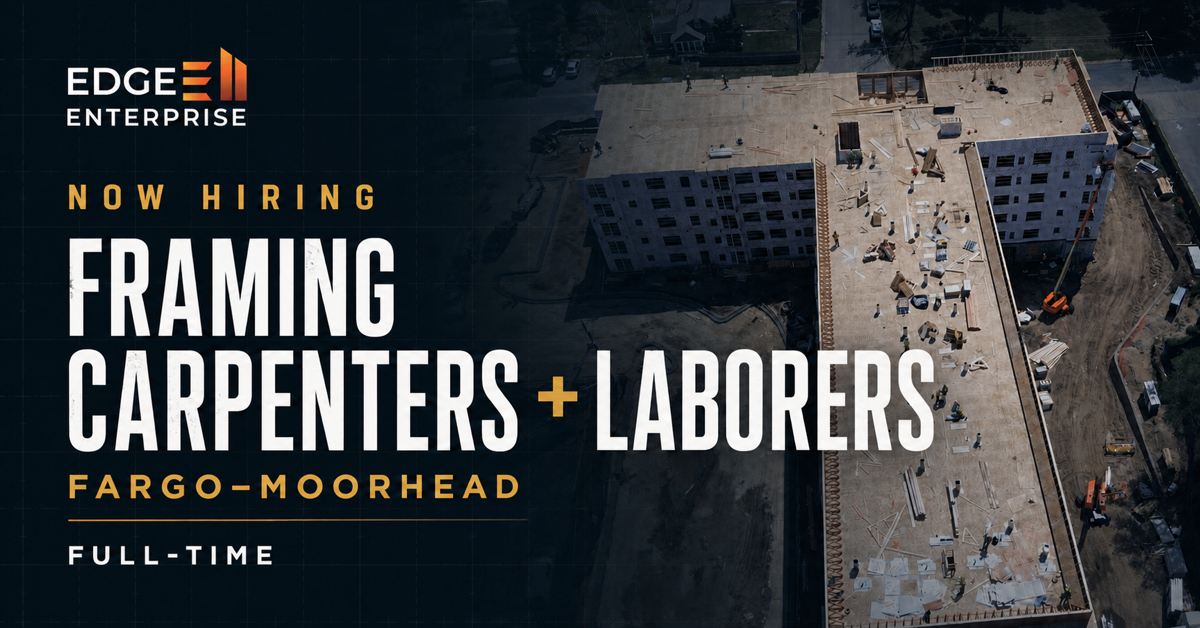
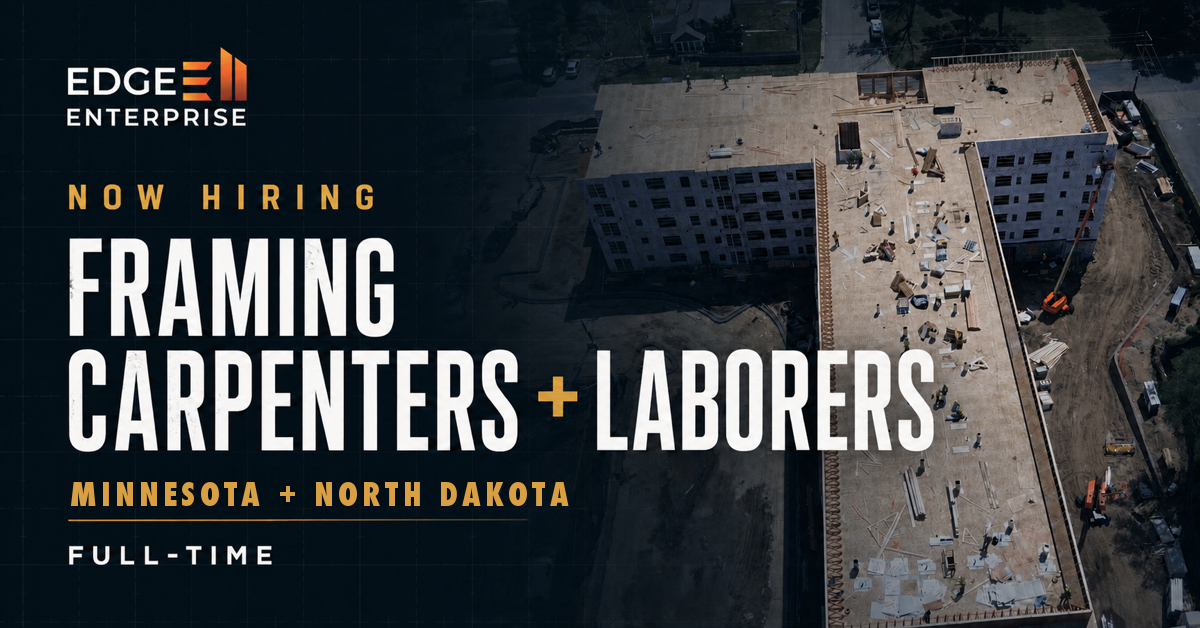
careers: hire across MN+ND, résumé and email optional, Spanish section, language field

Changed region(s): [[0.0308, 0.7564, 0.4933, 0.8169]]

diff --git a/careers.html b/careers.html
@@ -4,11 +4,11 @@
     <meta charset="UTF-8">
     <meta name="viewport" content="width=device-width, initial-scale=1.0">
     <title>Careers | Edge Enterprise LLC</title>
-    <meta name="description" content="Full-time framing carpenter and framing laborer opportunities with Edge Enterprise LLC in Fargo–Moorhead.">
+    <meta name="description" content="Full-time framing carpenter and framing laborer jobs with Edge Enterprise LLC across Minnesota and North Dakota. Résumé optional. Hablamos español.">
     <meta property="og:title" content="Careers at Edge Enterprise LLC">
-    <meta property="og:description" content="Now hiring full-time framing carpenters and framing laborers in Fargo–Moorhead.">
+    <meta property="og:description" content="Now hiring full-time framing carpenters and framing laborers across Minnesota and North Dakota.">
     <meta property="og:image" content="https://edgeenterprise.net/hiring-social-card.png">
-    <meta property="og:image:alt" content="Edge Enterprise now hiring framing carpenters and framing laborers in Fargo–Moorhead over an aerial wood-framing project.">
+    <meta property="og:image:alt" content="Edge Enterprise now hiring framing carpenters and framing laborers across Minnesota and North Dakota over an aerial wood-framing project.">
     <meta property="og:image:width" content="1200">
     <meta property="og:image:height" content="628">
     <meta property="og:type" content="website">
@@ -16,7 +16,7 @@
     <link rel="preconnect" href="https://fonts.googleapis.com">
     <link rel="preconnect" href="https://fonts.gstatic.com" crossorigin>
     <link href="https://fonts.googleapis.com/css2?family=Inter:wght@400;500;600;700;800&family=Playfair+Display:wght@700;800&display=swap" rel="stylesheet">
-    <link rel="stylesheet" href="careers.css?v=nc2">
+    <link rel="stylesheet" href="careers.css?v=nc3">
     <link rel="image_src" href="hiring-social-card.png">
 </head>
 <body class="careers-page">
@@ -32,11 +32,11 @@
         <section class="hero" aria-labelledby="hero-title">
             <div class="hero-image" role="img" aria-label="Wood framing project by Edge Enterprise"></div>
             <div class="content hero-content">
-                <p class="eyebrow">NOW HIRING · FARGO–MOORHEAD</p>
+                <p class="eyebrow">NOW HIRING · MINNESOTA &amp; NORTH DAKOTA</p>
                 <h1 id="hero-title">Build With Precision. Work With Edge.</h1>
-                <p class="hero-lead">Edge Enterprise LLC is hiring full-time framing carpenters and framing laborers for commercial and multi-family wood and steel framing work in the Fargo–Moorhead area.</p>
-                <a class="button button-primary" href="#application">Apply With Your Résumé</a>
-                <p class="supporting-line">Compensation and job details are provided upon contact.</p>
+                <p class="hero-lead">Edge Enterprise LLC is hiring full-time framing carpenters and framing laborers for commercial and multi-family wood and steel framing work across Minnesota and North Dakota, including the Twin Cities metro, Central Minnesota, and Fargo–Moorhead.</p>
+                <a class="button button-primary" href="#application">Apply in 2 Minutes</a>
+                <p class="supporting-line">No résumé needed. Performance bonus available. Compensation and job details are provided upon contact. <strong>¿Hablas español? <a href="#espanol" style="color:inherit;text-decoration:underline">Aplica aquí.</a></strong></p>
             </div>
         </section>
 
@@ -53,7 +53,7 @@
                 <div class="roles-grid">
                     <article class="role-card">
                         <h3>Full-Time Framing Carpenter</h3>
-                        <p>Bring your prior framing knowledge or experience to commercial and multi-family wood and steel framing work in the Fargo–Moorhead area.</p>
+                        <p>Bring your prior framing knowledge or experience to commercial and multi-family wood and steel framing work on job sites across Minnesota and North Dakota.</p>
                         <h4>Responsibilities</h4>
                         <ul>
                             <li>Complete assigned wood and steel framing work on commercial and multi-family projects.</li>
@@ -63,13 +63,13 @@
                         <h4>Qualifications</h4>
                         <ul>
                             <li>Prior framing knowledge and/or experience.</li>
-                            <li>Availability for full-time work in the Fargo–Moorhead area.</li>
+                            <li>Availability for full-time work on Minnesota and North Dakota job sites.</li>
                             <li>A direct, skilled, and hardworking approach to the work.</li>
                         </ul>
                     </article>
                     <article class="role-card">
                         <h3>Full-Time Framing Laborer</h3>
-                        <p>Support commercial and multi-family wood and steel framing work in the Fargo–Moorhead area. Prior framing knowledge or experience is required.</p>
+                        <p>Support commercial and multi-family wood and steel framing work on job sites across Minnesota and North Dakota. Prior framing knowledge or experience is required.</p>
                         <h4>Responsibilities</h4>
                         <ul>
                             <li>Assist with assigned wood and steel framing tasks.</li>
@@ -79,7 +79,7 @@
                         <h4>Qualifications</h4>
                         <ul>
                             <li>Prior framing knowledge and/or experience.</li>
-                            <li>Availability for full-time work in the Fargo–Moorhead area.</li>
+                            <li>Availability for full-time work on Minnesota and North Dakota job sites.</li>
                             <li>A commitment to integrity, precision, and excellence.</li>
                         </ul>
                     </article>
@@ -91,11 +91,23 @@
             <p class="eyebrow">WHAT HAPPENS NEXT</p>
             <h2 id="process-title">A Straightforward Process</h2>
             <ol>
-                <li>Submit your résumé</li>
+                <li>Apply online — résumé optional</li>
                 <li>We review your experience</li>
                 <li>We contact qualified applicants</li>
                 <li>Discuss compensation and job details</li>
             </ol>
+        </section>
+
+        <section class="section content" id="espanol" aria-labelledby="espanol-title" lang="es">
+            <p class="eyebrow">SE BUSCA PERSONAL</p>
+            <h2 id="espanol-title">Estamos contratando carpinteros de estructura y ayudantes</h2>
+            <p>Edge Enterprise LLC busca carpinteros de estructura (framers) y ayudantes de tiempo completo para obras comerciales y de vivienda multifamiliar en Minnesota y Dakota del Norte. Trabajo constante con estructura de madera y acero.</p>
+            <ul>
+                <li>No necesita currículum. La solicitud toma unos dos minutos.</li>
+                <li>Bono por desempeño disponible.</li>
+                <li>Hablamos español. Le llamamos para hablar del pago y los detalles del trabajo.</li>
+            </ul>
+            <p><a class="button button-primary" href="#application">Aplicar ahora</a> &nbsp;Puede llenar la solicitud en español y elegir &ldquo;Español&rdquo; como idioma preferido.</p>
         </section>
 
         <section class="section application-section" id="application" aria-labelledby="application-title">
@@ -103,20 +115,21 @@
                 <div>
                     <p class="eyebrow">APPLY ONLINE</p>
                     <h2 id="application-title">Bring Your Framing Experience to Edge</h2>
-                    <p>If you know framing and are looking for full-time work in Fargo–Moorhead, apply through our website and include your résumé. Compensation and complete job details are provided upon contact.</p>
+                    <p>If you know framing and are looking for full-time work in Minnesota or North Dakota, apply below. It takes about two minutes. A résumé is welcome but not required. Compensation and complete job details are provided upon contact.</p>
                 </div>
                 <form class="application-form" name="employment-application" method="POST" action="/application-received" data-netlify="true" netlify-honeypot="bot-field" enctype="multipart/form-data">
                     <input type="hidden" name="form-name" value="employment-application">
-                    <input type="hidden" name="subject" value="Fargo–Moorhead employment application">
+                    <input type="hidden" name="subject" value="Employment application - MN/ND">
                     <p class="honeypot"><label>Do not fill this out if you are human <input name="bot-field" tabindex="-1" autocomplete="off"></label></p>
-                    <p class="form-intro">Fields marked required are needed to review your application.</p>
+                    <p class="form-intro">Fields marked * are required. Puede responder en español.</p>
                     <div class="field"><label for="applicant-name">Name <span aria-hidden="true">*</span></label><input id="applicant-name" name="name" autocomplete="name" required></div>
-                    <div class="field"><label for="applicant-email">Email <span aria-hidden="true">*</span></label><input id="applicant-email" name="email" type="email" autocomplete="email" required></div>
+                    <div class="field"><label for="applicant-email">Email (optional)</label><input id="applicant-email" name="email" type="email" autocomplete="email"></div>
                     <div class="field"><label for="applicant-phone">Phone <span aria-hidden="true">*</span></label><input id="applicant-phone" name="phone" type="tel" autocomplete="tel" required></div>
                     <div class="field"><label for="applicant-role">Role <span aria-hidden="true">*</span></label><select id="applicant-role" name="role" required><option value="">Select a role</option><option>Framing Carpenter</option><option>Framing Laborer</option></select></div>
+                    <div class="field"><label for="applicant-language">Preferred language / Idioma preferido <span aria-hidden="true">*</span></label><select id="applicant-language" name="language" required><option value="">Select / Seleccione</option><option>English</option><option>Español</option></select></div>
                     <div class="field"><label for="experience-years">Years of framing experience <span aria-hidden="true">*</span></label><select id="experience-years" name="experience-years" required><option value="">Select experience</option><option value="Less than 1 year">Less than 1 year</option><option value="1–2 years">1–2 years</option><option value="3–5 years">3–5 years</option><option value="6+ years">6+ years</option></select></div>
                     <div class="field"><label for="work-summary">Brief work summary <span aria-hidden="true">*</span></label><textarea id="work-summary" name="work-summary" rows="5" required></textarea></div>
-                    <div class="field"><label for="resume">Résumé (PDF, DOC, or DOCX; 5 MB maximum) <span aria-hidden="true">*</span></label><input id="resume" name="resume" type="file" class="file-input-hidden" accept=".pdf,.doc,.docx" required aria-describedby="resume-help resume-error"><label for="resume" class="button button-primary file-trigger">Choose Résumé File</label><span id="resume-chosen" aria-live="polite">No file selected yet</span><br><span id="resume-help">Upload one résumé file.</span></div>
+                    <div class="field"><label for="resume">Résumé (optional — PDF, Word, or a photo; 5 MB maximum)</label><input id="resume" name="resume" type="file" class="file-input-hidden" accept=".pdf,.doc,.docx,.jpg,.jpeg,.png,.heic" aria-describedby="resume-help resume-error"><label for="resume" class="button button-primary file-trigger">Choose Résumé File</label><span id="resume-chosen" aria-live="polite">No file selected yet</span><br><span id="resume-help">Optional. A photo of a paper résumé works too.</span></div>
                     <p class="form-error" id="resume-error" role="alert" aria-live="assertive"></p>
                     <div class="consent"><input id="application-consent" name="application-consent" type="checkbox" value="I consent to Edge Enterprise reviewing my application." required><label for="application-consent">I consent to Edge Enterprise reviewing my application. <span aria-hidden="true">*</span></label></div>
                     <button class="button button-primary" type="submit">Submit Application</button>
@@ -132,6 +145,6 @@
     </main>
 
     <footer class="site-footer"><div class="content"><img src="logo.png" alt="Edge Enterprise LLC"><p>© 2026 Edge Enterprise LLC. All rights reserved.</p></div></footer>
-    <script src="careers.js?v=nc2"></script>
+    <script src="careers.js?v=nc3"></script>
 </body>
 </html>

diff --git a/careers.js b/careers.js
@@ -9,16 +9,20 @@
         pdf: new Set(["application/pdf"]),
         doc: new Set(["application/msword"]),
         docx: new Set(["application/vnd.openxmlformats-officedocument.wordprocessingml.document"]),
+        jpg: new Set(["image/jpeg"]),
+        jpeg: new Set(["image/jpeg"]),
+        png: new Set(["image/png"]),
+        heic: new Set(["image/heic", "image/heif"]),
     };
 
     function validateResume(file) {
-        if (!file) return { valid: false, error: "Please attach your résumé." };
+        if (!file) return { valid: true, error: "" }; // résumé is optional
         if (file.size <= 0) return { valid: false, error: "Résumé file cannot be empty." };
         if (file.size > MAX_RESUME_SIZE) return { valid: false, error: "Résumé must be 5 MB or smaller." };
         const extension = (file.name || "").split(".").pop().toLowerCase();
         const expectedMimeTypes = allowedMimeTypesByExtension[extension];
         const allowed = expectedMimeTypes && (!file.type || expectedMimeTypes.has(file.type));
-        return allowed ? { valid: true, error: "" } : { valid: false, error: "Upload a PDF, DOC, or DOCX résumé." };
+        return allowed ? { valid: true, error: "" } : { valid: false, error: "Upload a PDF, Word file, or photo (JPG, PNG, HEIC)." };
     }
 
     function setResumeError(errorRegion, input, result) {
